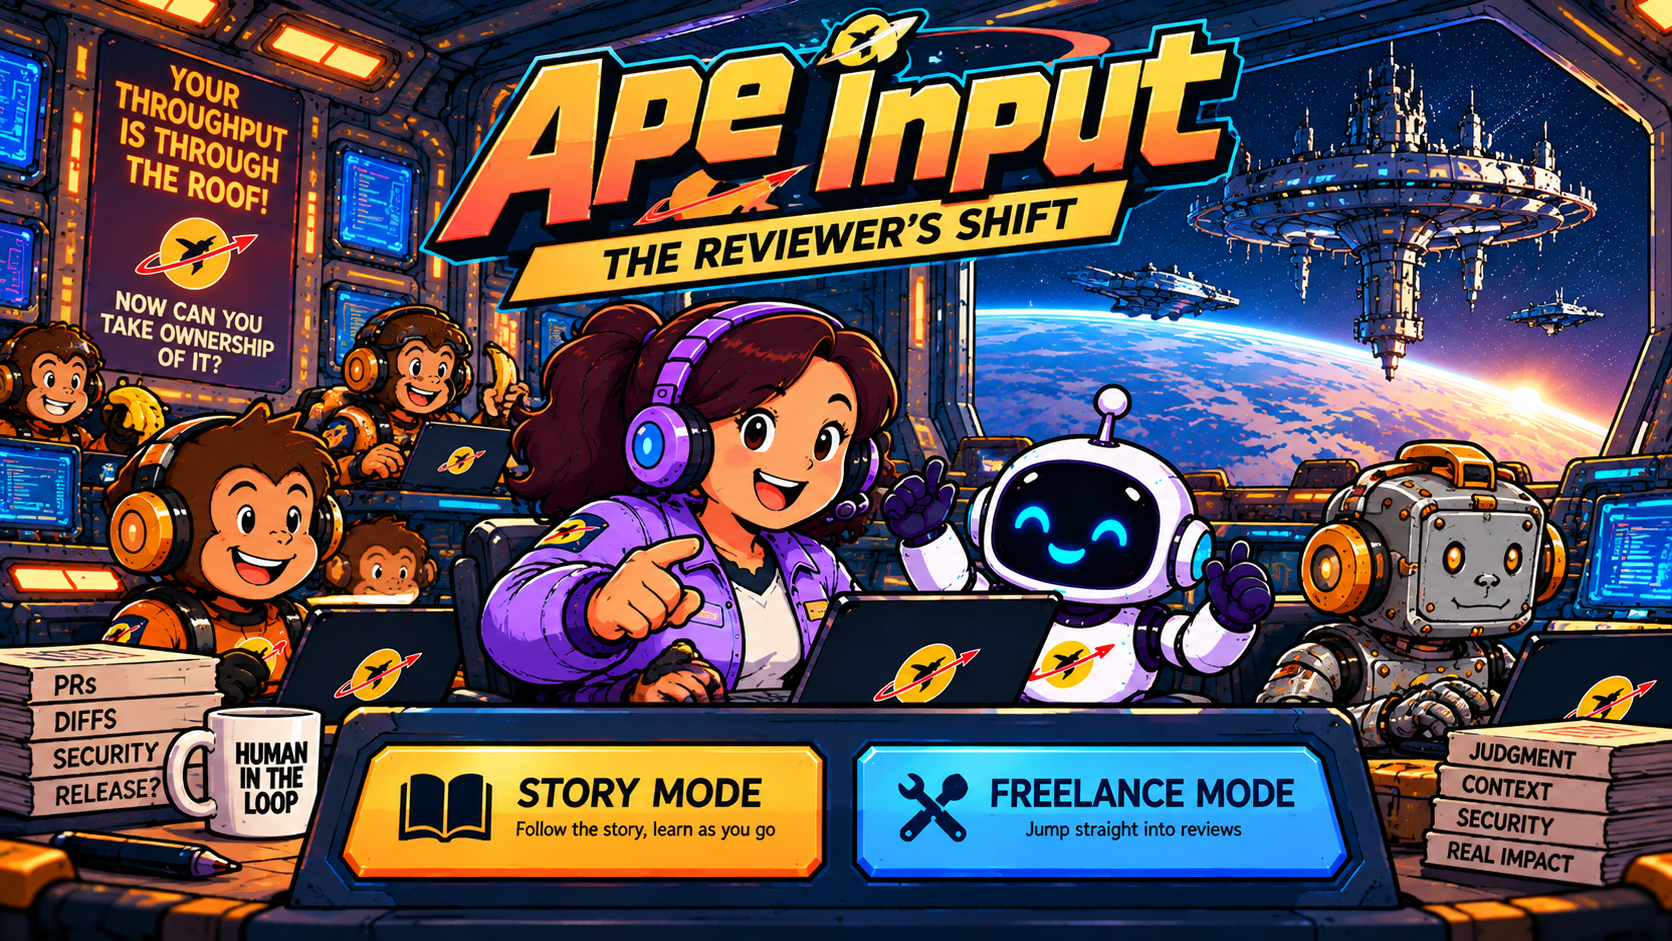
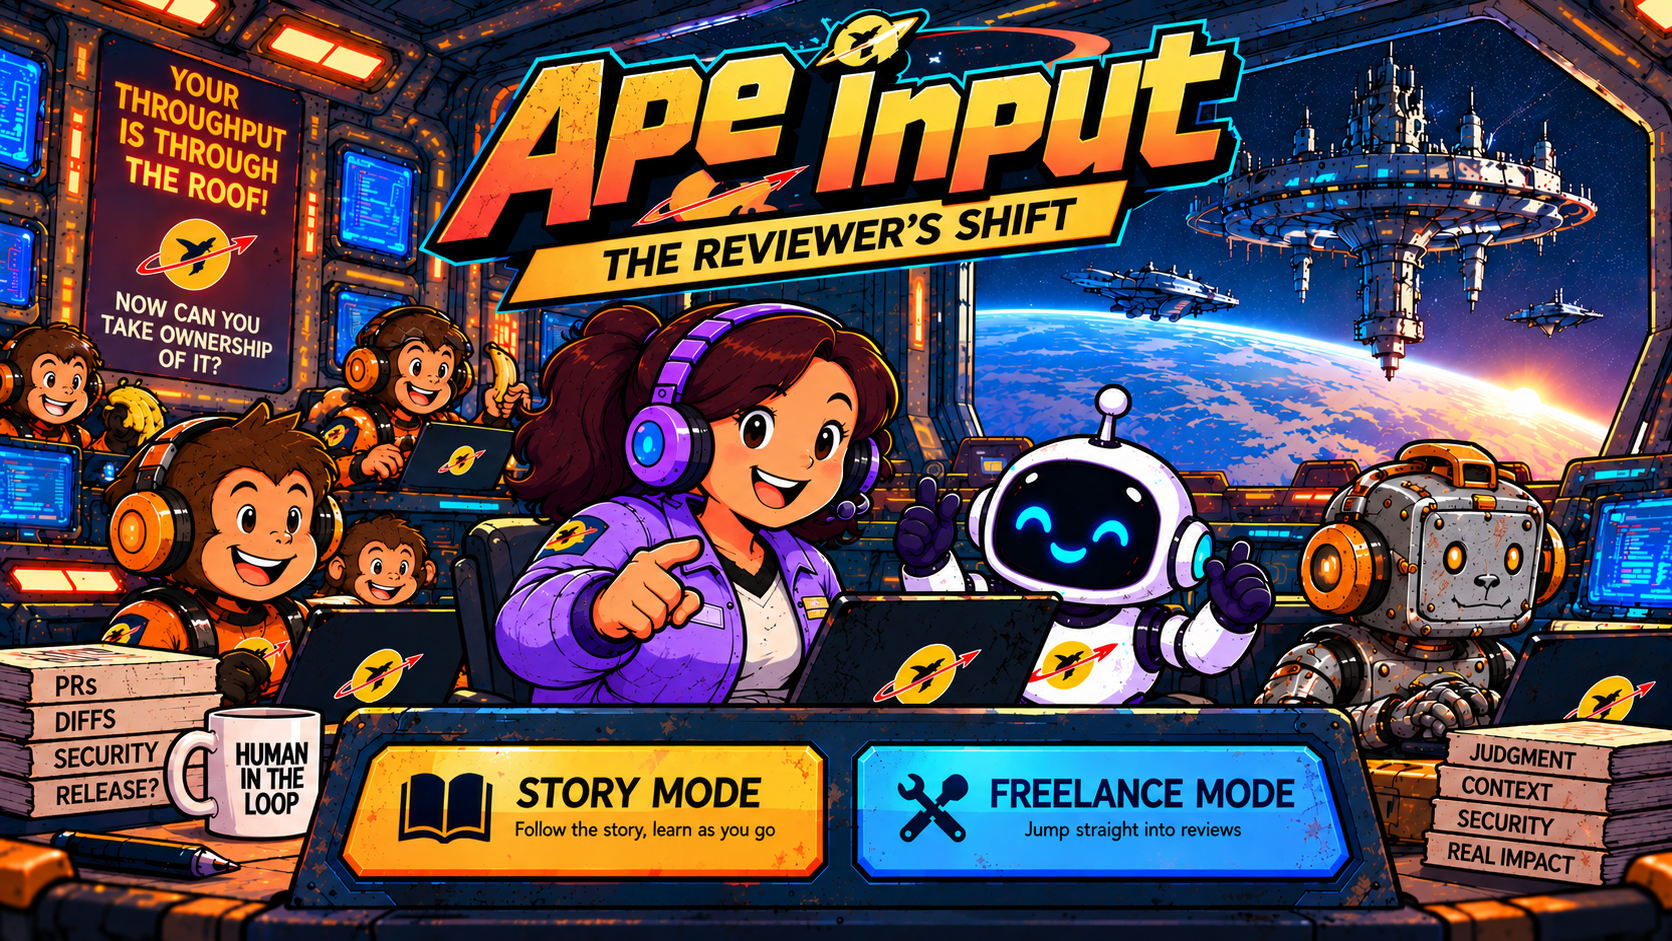
Removed the third hand from the title image.
Tweaked some light/dark styling to prevent content jumps

diff --git a/src/styles.css b/src/styles.css
@@ -138,17 +138,17 @@ button {
 }
 
 .title-art-action--story {
-    left: 19.5%;
+    left: 20.1%;
     top: 79.4%;
-    width: 29.8%;
-    height: 14.5%;
+    width: 29.2%;
+    height: 14.1%;
 }
 
 .title-art-action--free-for-all {
-    left: 50.4%;
+    left: 50.9%;
     top: 79.4%;
-    width: 30.2%;
-    height: 14.5%;
+    width: 30%;
+    height: 14.1%;
 }
 
 .mode-selector {
@@ -1251,6 +1251,11 @@ button {
     overflow-x: auto;
 }
 
+/* Keep a selected file header visible below the sticky review navigation. */
+.review-page--with-navigation .pull-request .d2h-file-wrapper {
+    scroll-margin-top: 76px;
+}
+
 .pull-request .d2h-code-line,
 .pull-request .d2h-code-side-line {
     background: #0d1c2c;
@@ -1658,8 +1663,179 @@ html[data-theme="light"] .mode-card {
 
 html[data-theme="light"] .theme-toggle {
     border-color: #bdcdd7;
+    border-radius: 8px;
     color: #29495d;
     background: #fff;
+}
+
+/* The landing controls retain the shared light-mode utility treatment. */
+html[data-theme="light"] .landing-exit-link {
+    border-color: #bdcdd7;
+    border-radius: 8px;
+    color: #29495d;
+    background: #fff;
+}
+
+html[data-theme="light"] .landing-exit-link:hover,
+html[data-theme="light"] .landing-exit-link:focus-visible {
+    border-color: #5f9fbe;
+    color: #075b9a;
+    background: #e7f2f7;
+}
+
+html[data-theme="light"] .title-page {
+    background: radial-gradient(circle at 75% 20%, rgba(95, 163, 190, .16), transparent 28rem), #f4f7fa;
+}
+
+html[data-theme="light"] .title-page-art img {
+    border: 1px solid #c5d3dc;
+    border-radius: 18px;
+    box-shadow: 0 0 0 7px rgba(197, 211, 220, .24);
+}
+
+html[data-theme="light"] .story-art {
+    border: 1px solid #c5d3dc;
+    border-radius: 14px;
+    box-shadow: 0 0 0 5px rgba(197, 211, 220, .2), 0 20px 54px rgba(19, 45, 61, .26);
+}
+
+html[data-theme="light"] .story-art-action:focus-visible {
+    outline-color: #075b9a;
+    box-shadow: 0 0 0 7px rgba(7, 91, 154, .28);
+}
+
+html[data-theme="light"] .back {
+    border-color: #aabec9;
+    border-radius: 8px;
+    color: #294d62;
+    background: #fff;
+}
+
+html[data-theme="light"] .back:hover,
+html[data-theme="light"] .back:focus-visible {
+    border-color: #5f9fbe;
+    color: #075b9a;
+    background: #e7f2f7;
+}
+
+html[data-theme="light"] .back:focus-visible {
+    outline-color: rgba(7, 91, 154, .35);
+}
+
+/* Light mode uses the same compact control language throughout: orange for
+ * forward motion, blue for utility actions, and distinct semantic decisions. */
+html[data-theme="light"] .primary-action,
+html[data-theme="light"] .comparison-done:not(.secondary) {
+    border: 1px solid #b94b0a;
+    border-radius: 8px;
+    color: #fff;
+    background: #d85e13;
+    box-shadow: 0 2px 0 #9f3d05;
+    cursor: pointer;
+}
+
+html[data-theme="light"] .primary-action:hover,
+html[data-theme="light"] .primary-action:focus-visible,
+html[data-theme="light"] .comparison-done:not(.secondary):hover,
+html[data-theme="light"] .comparison-done:not(.secondary):focus-visible {
+    border-color: #8f3906;
+    background: #b94b0a;
+}
+
+html[data-theme="light"] .primary-action:disabled {
+    box-shadow: none;
+    cursor: not-allowed;
+    transform: none;
+}
+
+html[data-theme="light"] .primary-action:disabled:hover {
+    border-color: #b94b0a;
+    background: #d85e13;
+}
+
+html[data-theme="light"] .secondary-action,
+html[data-theme="light"] .track-page-link,
+html[data-theme="light"] .clear-filter,
+html[data-theme="light"] .comparison-actions .comparison-done.secondary {
+    border-color: #aabec9;
+    border-radius: 8px;
+    color: #294d62;
+    background: #fff;
+}
+
+html[data-theme="light"] .secondary-action:hover,
+html[data-theme="light"] .secondary-action:focus-visible,
+html[data-theme="light"] .track-page-link:hover,
+html[data-theme="light"] .track-page-link:focus-visible,
+html[data-theme="light"] .clear-filter:hover,
+html[data-theme="light"] .clear-filter:focus-visible,
+html[data-theme="light"] .comparison-actions .comparison-done.secondary:hover,
+html[data-theme="light"] .comparison-actions .comparison-done.secondary:focus-visible {
+    border-color: #5f9fbe;
+    color: #075b9a;
+    background: #e7f2f7;
+}
+
+html[data-theme="light"] .review-tools-trigger {
+    border-color: #064a7c;
+    color: #fff;
+    background: #075b9a;
+    box-shadow: 0 2px 0 #053b64;
+}
+
+html[data-theme="light"] .review-tools-trigger:hover,
+html[data-theme="light"] .review-tools-trigger:focus-visible {
+    border-color: #053b64;
+    background: #064a7c;
+}
+
+html[data-theme="light"] .approve {
+    border-color: #17643f;
+    border-radius: 8px;
+    color: #fff;
+    background: #267c50;
+    box-shadow: 0 2px 0 #145536;
+}
+
+html[data-theme="light"] .approve:hover,
+html[data-theme="light"] .approve:focus-visible {
+    border-color: #145536;
+    background: #17643f;
+}
+
+html[data-theme="light"] .deny {
+    border-color: #a42b22;
+    border-radius: 8px;
+    color: #fff;
+    background: #c73a2e;
+    box-shadow: 0 2px 0 #852119;
+}
+
+html[data-theme="light"] .deny:hover,
+html[data-theme="light"] .deny:focus-visible {
+    border-color: #852119;
+    background: #a42b22;
+}
+
+html[data-theme="light"] .review-again:hover,
+html[data-theme="light"] .review-again:focus-visible {
+    color: #075b9a;
+    background: #e7f2f7;
+}
+
+html[data-theme="light"] .review-tools-close:hover,
+html[data-theme="light"] .review-tools-close:focus-visible,
+html[data-theme="light"] .comparison-close:hover,
+html[data-theme="light"] .comparison-close:focus-visible {
+    border-color: #5f9fbe;
+    color: #075b9a;
+    background: #e7f2f7;
+}
+
+html[data-theme="light"] button:not(.title-art-action):not(.story-art-action):focus-visible,
+html[data-theme="light"] .track-page-link:focus-visible {
+    outline: 3px solid rgba(7, 91, 154, .35);
+    outline-offset: 2px;
 }
 
 /* Keep the review controls legible when the page is using the light palette. */
@@ -1865,6 +2041,8 @@ html[data-theme="light"] .pull-request .d2h-code-side-line del [class*=" hljs-"]
     .track-navigator-action--previous { grid-column: 1; grid-row: 2; }
     .track-navigator-action--next { grid-column: 2; grid-row: 2; }
 
+    .review-page--with-navigation .pull-request .d2h-file-wrapper { scroll-margin-top: 116px; }
+
     .brand img { width: 45px; height: 40px; }
     .brand small { display: none; }
 
@@ -1952,9 +2130,9 @@ html:not([data-theme="light"]) body {
 }
 
 html:not([data-theme="light"]) .site-header {
-    width: min(1440px, calc(100% - 48px));
-    min-height: 82px;
-    padding: 0 22px;
+    width: min(1160px, calc(100% - 48px));
+    min-height: 70px;
+    padding: 0;
     border-bottom-color: var(--console-line);
     background: linear-gradient(90deg, var(--color-ink), color-mix(in srgb, var(--color-blue) 35%, var(--color-ink)));
 }
@@ -2059,7 +2237,7 @@ html:not([data-theme="light"]) .mode-card strong {
 html:not([data-theme="light"]) .launchpad,
 html:not([data-theme="light"]) .review-page,
 html:not([data-theme="light"]) .story-briefing {
-    width: min(1280px, calc(100% - 48px));
+    width: min(1160px, calc(100% - 48px));
 }
 
 html:not([data-theme="light"]) .launchpad h1,
@@ -2092,8 +2270,8 @@ html:not([data-theme="light"]) .review-heading {
 html:not([data-theme="light"]) .exercise-filters,
 html:not([data-theme="light"]) .practice-setup,
 html:not([data-theme="light"]) .specific-picker {
-    max-width: 940px;
-    padding: 25px 24px;
+    max-width: 850px;
+    padding: 22px 0;
     border: 1px solid var(--console-line);
     border-left: 3px solid var(--console-cyan);
     border-radius: 18px;

diff --git a/src/pages/ReviewPage.tsx b/src/pages/ReviewPage.tsx
@@ -9,7 +9,7 @@ function prettyPrintChoice(answer: Choice) {
 }
 
 
-export function ReviewPage({ exercise, previousHref, nextHref, trackProgressLabel, completed = false, menuHash = 'home', onComplete }: { exercise: ExercisePackage; previousHref?: string; nextHref?: string; trackProgressLabel: string; completed?: boolean; menuHash?: string; onComplete?: () => void }) {
+export function ReviewPage({ exercise, previousHref, nextHref, trackProgressLabel, completed = false, menuHash = 'home', onComplete }: { exercise: ExercisePackage; previousHref?: string; nextHref?: string; trackProgressLabel?: string; completed?: boolean; menuHash?: string; onComplete?: () => void }) {
   const [format, setFormat] = useState<DiffOutputFormat>(() => window.matchMedia('(max-width: 760px)').matches ? 'line-by-line' : 'side-by-side');
   const [contextSize, setContextSize] = useState<number>(10);
   const [highlight, setHighlight] = useState<boolean>(true);
@@ -51,16 +51,16 @@ export function ReviewPage({ exercise, previousHref, nextHref, trackProgressLabe
   };
 
   return <>
-    <main class="review-page">
-      <div class="review-navigation">
+    <main class={`review-page${trackProgressLabel ? ' review-page--with-navigation' : ''}`}>
+      {trackProgressLabel && <div class="review-navigation">
         <TrackNavigator
           variant="review"
           previous={previousHref ? { href: `#${previousHref}` } : undefined}
           next={nextHref ? { href: `#${nextHref}` } : undefined}
           progressLabel={trackProgressLabel}
         />
-        <button class="review-tools-trigger" type="button" aria-expanded={toolsOpen} aria-controls="review-tools-panel" onClick={() => setToolsOpen(true)}>Review tools</button>
-      </div>
+      </div>}
+      <button class="review-tools-trigger" type="button" aria-expanded={toolsOpen} aria-controls="review-tools-panel" onClick={() => setToolsOpen(true)}>Review tools</button>
       <section class="review-heading">
         <div>
           <p class="eyebrow">EXERCISE {item.id} · {item.difficulty.toUpperCase()}</p>

diff --git a/src/app.tsx b/src/app.tsx
@@ -171,7 +171,7 @@ export function App() {
   const onLanding = !exercise && !storyPage && hash !== '#ffa' && hash !== '#story';
   const showHeader = !onLanding || (mode === 'story' && hash !== '' && hash !== '#home');
   const menuHash = mode === 'ffa' ? 'ffa' : mode === 'story' ? 'story' : 'home';
-  const menuLabel = mode === 'story' ? 'Return to mission start' : 'Return to exercise start';
+  const menuLabel = mode === 'story' ? 'Return to mission start' : 'Return to exercise menu';
   const onExerciseStart = hash === '#ffa';
   const onStoryLanguageSelection = hash === '#story';
   const missionStartHash = '#story-page/orientation';
@@ -190,6 +190,7 @@ export function App() {
       : menuLabel;
   const navigableEntries = track?.entries ?? [];
   const currentStep = track && currentEntry ? track.index + 1 : 0;
+  const showReviewNavigation = navigableEntries.length > 1;
   const trackProgressLabel = mode === 'story'
     ? `MISSION STEP ${currentStep} OF ${navigableEntries.length}`
     : `EXERCISE ${currentStep} OF ${navigableEntries.length}`;
@@ -212,7 +213,7 @@ export function App() {
           previousHref={mode === 'story' && previousEntry ? entryHash(previousEntry) : undefined}
           nextHref={nextEntry ? entryHash(nextEntry) : undefined}
           menuHash={mode === 'story' ? 'home' : menuHash}
-          trackProgressLabel={trackProgressLabel}
+          trackProgressLabel={showReviewNavigation ? trackProgressLabel : undefined}
           completed={Boolean(track && !nextEntry)}
           onComplete={() => recordNavigatorActivity(exercise.slug, 'completed', { language: exercise.language, ...(mode ? { mode } : {}) })}
         />

diff --git a/src/pages/StoryPage.tsx b/src/pages/StoryPage.tsx
@@ -2,6 +2,9 @@ import { useState } from 'preact/hooks';
 import type { ExerciseController } from '../services/exercise-controller';
 import { TrackNavigator } from '../components/TrackNavigator';
 
+// C scenarios remain in the corpus, but are not yet part of the attendee experience.
+const attendeeLanguages = new Set(['typescript', 'java', 'python']);
+
 function languageLabel(item: string) {
   if (item === 'typescript') return 'TypeScript';
   if (item === 'python') return 'Python';
@@ -15,7 +18,7 @@ export function StoryPage({ controller, onBeginMission, onPrevious, progressLabe
   onPrevious?: () => void;
   progressLabel?: string;
 }) {
-  const languages = controller.listLanguages();
+  const languages = controller.listLanguages().filter((language) => attendeeLanguages.has(language));
   const [language, setLanguage] = useState(languages.includes('typescript') ? 'typescript' : languages[0] ?? '');
   const ready = controller.listExercisesForLanguage(language).length > 0;
 

diff --git a/src/pages/HomePage.tsx b/src/pages/HomePage.tsx
@@ -9,8 +9,11 @@ const difficulties = [
   { value: 'hard', label: 'Hard' },
 ];
 
+// C scenarios remain in the corpus, but are not yet part of the attendee experience.
+const attendeeLanguages = new Set(['typescript', 'java', 'python']);
+
 export function HomePage({ controller, onStartTrack }: { controller: ExerciseController; onStartTrack: (language: string, difficulties: readonly string[], maxExercises: number) => void }) {
-  const languages = controller.listLanguages();
+  const languages = controller.listLanguages().filter((language) => attendeeLanguages.has(language));
   const [language, setLanguage] = useState(languages.includes('typescript') ? 'typescript' : languages[0] ?? '');
   const [selectedDifficulties, setSelectedDifficulties] = useState<string[]>([]);
   const [trackLength, setTrackLength] = useState(1);

diff --git a/src/components/DiffView.tsx b/src/components/DiffView.tsx
@@ -47,7 +47,9 @@ export function DiffView(props: DiffViewProps) {
       highlight: highlight ?? false
     }).draw();
 
-    const fileDiffs = target.current.querySelectorAll<HTMLElement>('.d2h-file-diff');
+    // Diff2Html uses the wrapper around each file in both output formats.
+    // The inner diff element differs between line-by-line and side-by-side.
+    const fileDiffs = target.current.querySelectorAll<HTMLElement>('.d2h-file-wrapper');
     fileDiffs.forEach((element, index) => {
       element.id = `review-file-${index}`;
       element.scrollLeft = previousHorizontalScroll[index] ?? 0;
